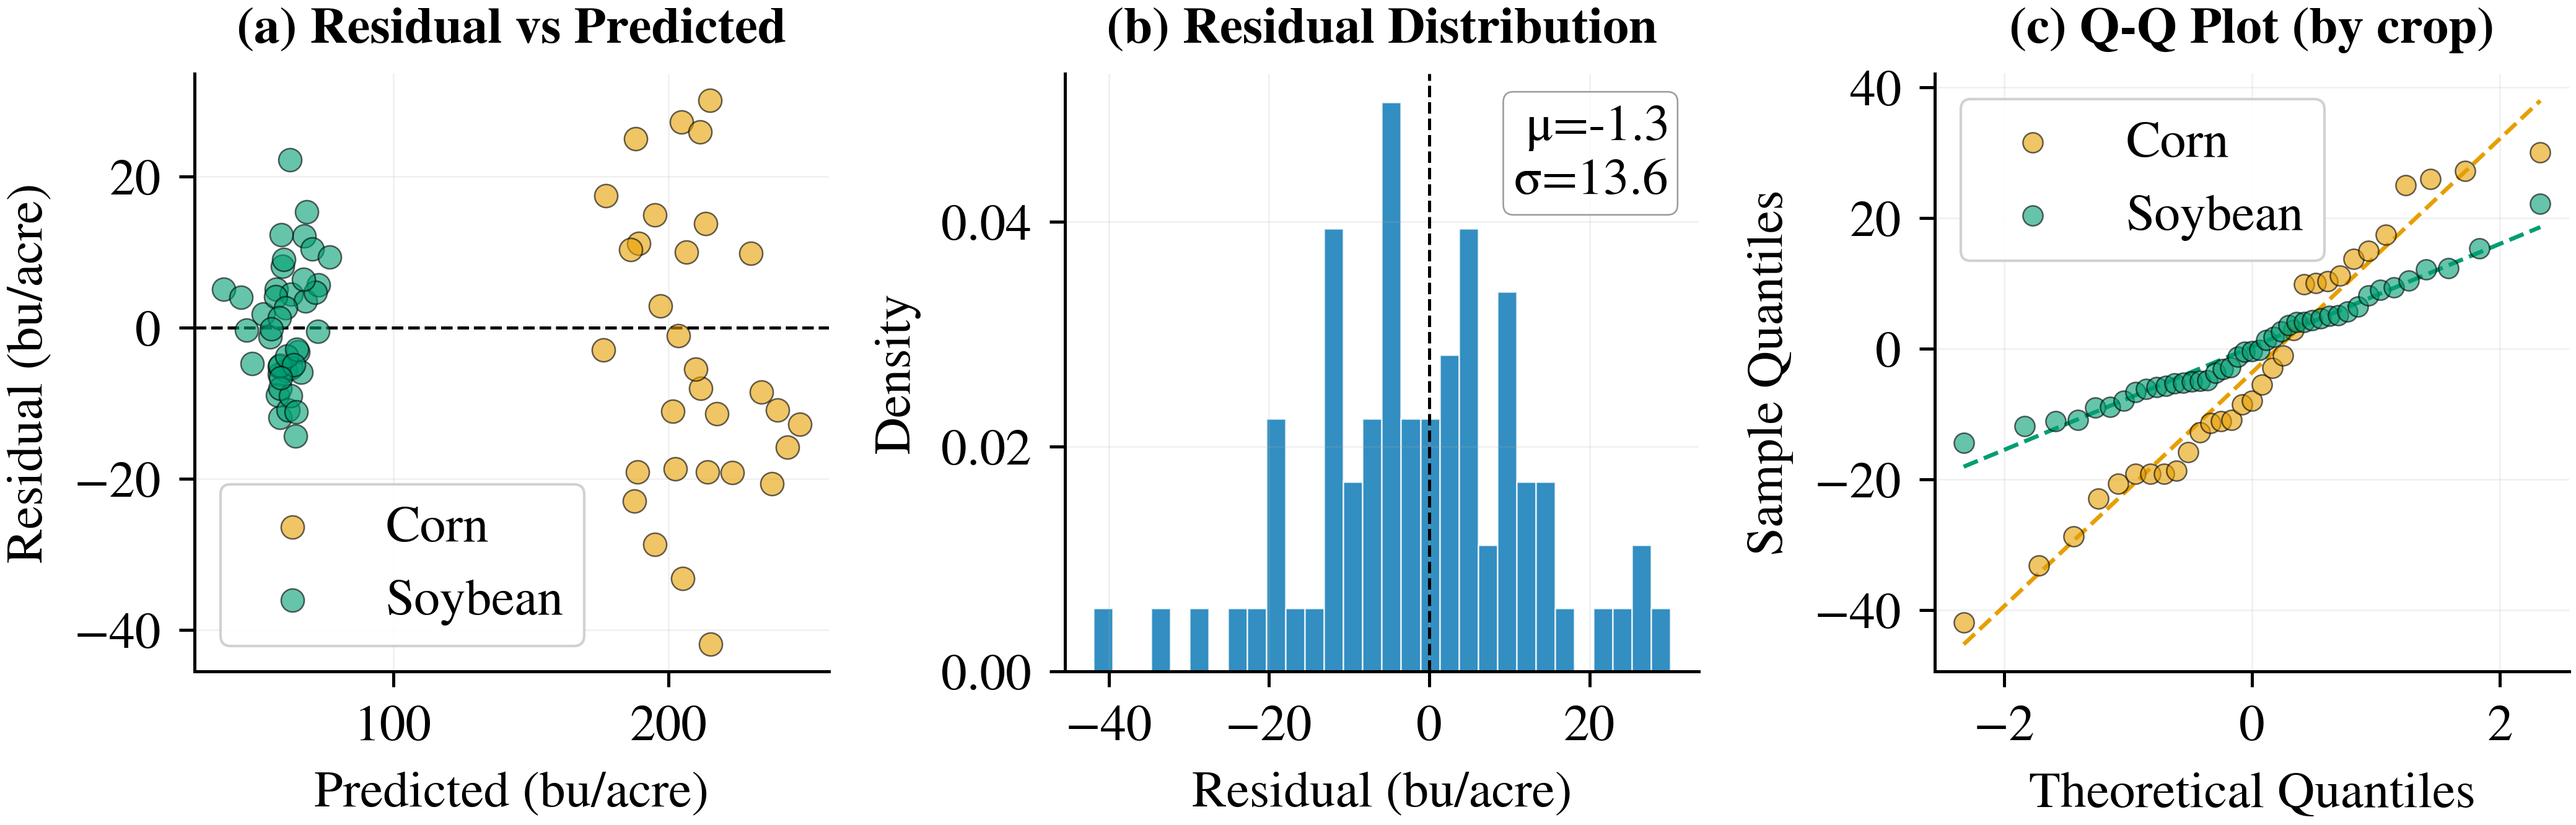
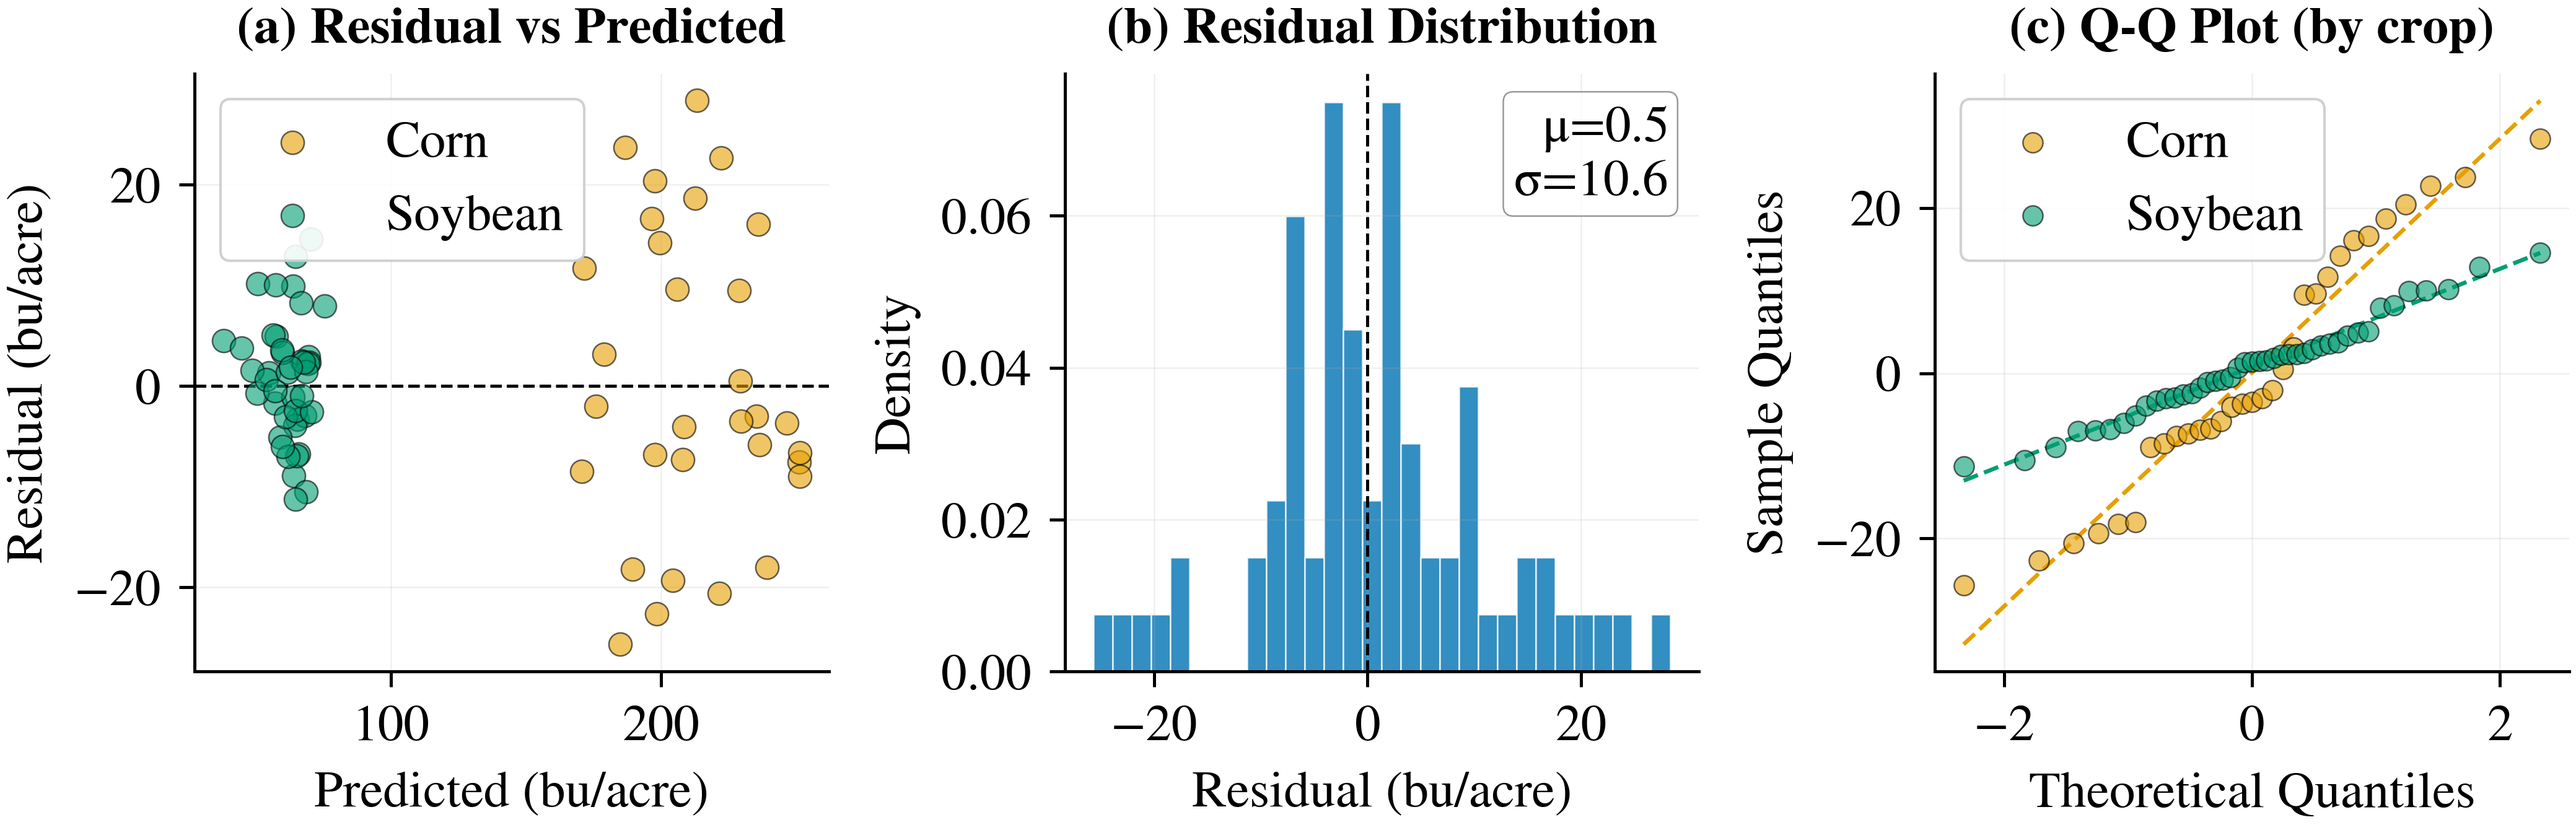
DEV: Updated residual analysis

diff --git a/generate_journal_figures.py b/generate_journal_figures.py
@@ -1465,30 +1465,24 @@ def fig16_yield_statistics():
 # FIGURE 17: Residual analysis for best M3 model
 # ============================================================================
 def fig17_residual_analysis():
-    """Residual analysis for the best M3 configuration."""
+    """Residual analysis for best M4 configurations."""
     print('Figure 17: Residual analysis...')
 
-    pred_dir = 'M3/predictions'
-    csv_files = sorted(Path(pred_dir).glob('*.csv'))
+    crop_csv = {
+        'Corn': 'conf_FS/conf_FS/predictions/corn/6round/S12cdw_Corn_week_16_20_1_12_18_19.csv',
+        'Soybean': 'conf_FS/conf_FS/predictions/soybean/round3/S12sd_Soybean_week_16_18_1.csv',
+    }
 
-    # Get best overall config
-    modal_data = {}
-    for csv_file in csv_files:
-        modal = extract_modal_code(csv_file.stem)
-        df = pd.read_csv(csv_file)
-        if modal not in modal_data:
-            modal_data[modal] = {'true': [], 'pred': [], 'crop': []}
-        crop = extract_crop(csv_file.stem)
-        modal_data[modal]['true'].extend(df['YieldGT'].values)
-        modal_data[modal]['pred'].extend(df['Prediction'].values)
-        modal_data[modal]['crop'].extend([crop] * len(df))
+    all_true, all_pred, all_crops = [], [], []
+    for crop, csv_path in crop_csv.items():
+        df = pd.read_csv(csv_path)
+        all_true.extend(df['YieldGT'].values)
+        all_pred.extend(df['Prediction'].values)
+        all_crops.extend([crop] * len(df))
 
-    best_modal = max(modal_data.items(),
-                     key=lambda x: r2_score(np.array(x[1]['true']), np.array(x[1]['pred'])))
-    modal_name = best_modal[0]
-    y_true = np.array(best_modal[1]['true'])
-    y_pred = np.array(best_modal[1]['pred'])
-    crops = np.array(best_modal[1]['crop'])
+    y_true = np.array(all_true)
+    y_pred = np.array(all_pred)
+    crops = np.array(all_crops)
     residuals = y_pred - y_true
 
     fig, axes = plt.subplots(1, 3, figsize=(DOUBLE_COL, 2.5))
